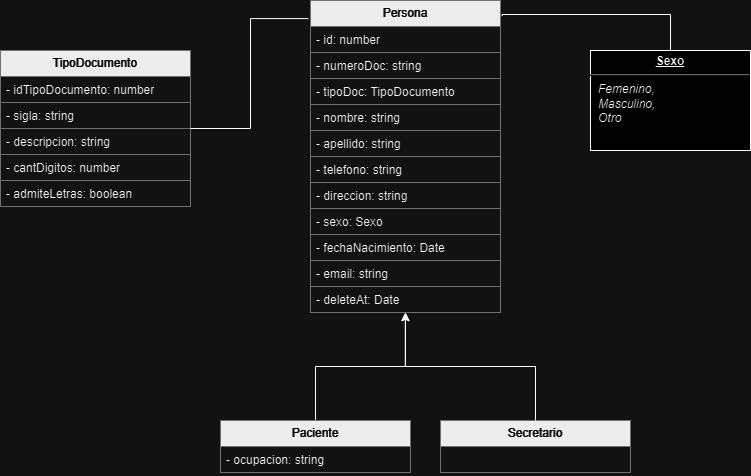
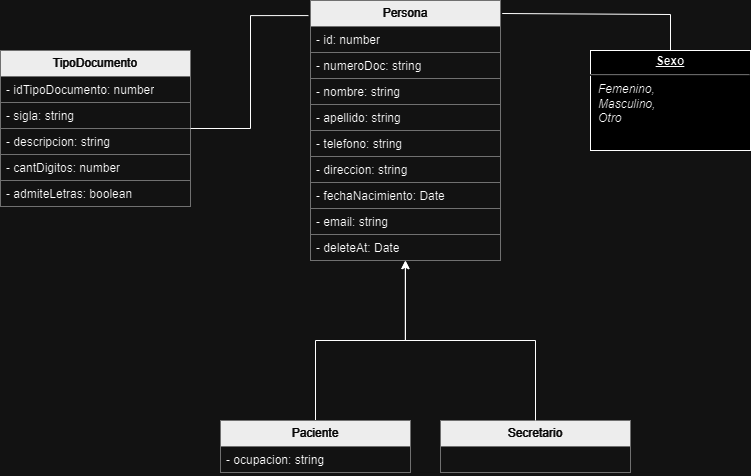
Actualizacion Requerimientos de la iteracion junto a retoques de los modelos conceptuales

diff --git a/docs/Especificacion_de_Requerimientos_Iteracion3.md b/docs/Especificacion_de_Requerimientos_Iteracion3.md
@@ -494,15 +494,16 @@ Ninguno
 ---
 ## Matriz de Rastreabilidad Objetivo/Requisitos
 
-| OBJ/IRQ                 | **OBJ01-Gestionar Psicólogos** | **OBJ02-Gestionar Pacientes** | **OBJ04-Gestionar Parámetros de Sistema** | **OBJ05-Gestionar Seguridad** |
-|:--------------------------|:------------------------:|:------------------------:|:------------------------:|:------------------------:|
-| **IRQ 01**|**X**|||||
-| **IRQ 02**|||**X**|**X**||
-| **NFR 01**|**X**|||||
-| **NFR 02**|**X**|||||
-| **NFR 03**|**X**|**X**||||
-| **NFR 04**||||**X**||
-**NFR 05**||||**X**||
+| OBJ/IRQ                 | **OBJ04-Gestionar Parámetros de Sistema** | **OBJ05-Gestionar Seguridad** | **OBJ07-Gestión de Sesiones** | **OBJ08-Gestión de Informes de Sesion** | **OBJ06-Gestion de Secretarios**|
+|:--------------------------|:------------------------:|:------------------------:|:------------------------:|:------------------------:|:------------------------:|
+| **IRQ 01**|||**X**||
+| **IRQ 02**|**X**|**X**|||**X**|
+| **IRQ 03**||||**X**|
+| **NFR 01**|**X**|**X**||||
+| **NFR 02**|**X**|||**X**|
+| **NFR 03**|**X**|**X**|**X**|**X**|
+| **NFR 04**||||**X**|
+**NFR 05**|||**X**||**X**|
 ---
 
 ## Glosario de Términos
@@ -510,33 +511,33 @@ Ninguno
 | Termino  | Categoría | Comentarios |
 |--------|--------------|----|
 | **Administrador** | Actor | Este actor representa a la persona que se administrar los usuarios del sistema, como axial también agregar todos los parámetros para su uso. |
+| **Secretario** | Actor | El secretario es el responsable de realizar la gestion de pacientes y de sesiones. |
 | **Psicologo** | Actor | El Psicologo es la responsable de llevar a cabo las sesiones con los pacientes y realizar los informes de sesion correspondientes ademas debe poder registrar nuevos pacientes y sesiones. |
-| **Registrar Psicólogos** | Caso de uso | Este caso de uso describe los pasos que se debe realizar para registrar un psicólogo. |
-| **Modificar Psicólogos** | Caso de uso | Este caso de uso describe los pasos que se debe realizar para modifcar un psicólogo. |
-| **Eliminar Psicólogos** | Caso de uso | Este caso de uso describe los pasos que se debe realizar para eliminar un psicólogo del sistema. |
-| **Consultar Psicólogos** | Caso de uso | Este caso de uso describe los pasos que se debe realizar para consultar los datos de los psicólogos del sistema. |
-| **Registrar Estado Civil** | Caso de uso | Este caso de uso describe los pasos que se debe realizar para registrar un estado civil que puede tener un paciente. |
-| **Modificar Estado Civil** | Caso de uso | Este caso de uso describe los pasos que se debe realizar para modifcar un estado civil que puede tener una persona. |
-| **Consultar Estado Civil** | Caso de uso | Este caso de uso describe los pasos que se debe realizar para consultar los estados civiles presentes en el sistema. |
-| **Eliminar Estado Civil** | Caso de uso | Este caso de uso describe los pasos que se debe realizar para eliminar un estado civil del sistema. |
-| **Registrar Especialidad** | Caso de uso | Este caso de uso describe los pasos que se debe realizar para registrar la especialidad que puede tener un psicólogo. |
-| **Modificar Especialidad** | Caso de uso | Este caso de uso describe los pasos que se debe realizar para modifcar una especialidad que puede tener un psicólogo. |
-| **Eliminar Especialidad** | Caso de uso | Este caso de uso describe los pasos que se debe realizar para eliminar una especialidad que puede tener un psicólogo del sistema. |
-| **Consultar Especialidad** | Caso de uso | Este caso de uso describe los pasos que se debe realizar para consultar los tipos de especialidades que puede tener un psicólogo presentes en el sistema. |
+| **Registrar Sesión** | Caso de uso | Este caso de uso describe los pasos que se deben realizar para registrar una sesión en el sistema. |
+| **Modificar Sesión** | Caso de uso | Este caso de uso describe los pasos que se deben realizar para modificar una sesión existente en el sistema. |
+| **Cancelar Sesión** | Caso de uso | Este caso de uso describe los pasos que se deben realizar para cancelar una sesión del sistema. |
+| **Consultar Sesión** | Caso de uso | Este caso de uso describe los pasos que se deben realizar para consultar las sesiones de los pacientes cargadas en el sistema. |
+| **Registrar Informe Sesión** | Caso de uso | Este caso de uso describe los pasos que se deben realizar para registrar un informe de sesión en el sistema. |
+| **Modificar Informe Sesión** | Caso de uso | Este caso de uso describe los pasos que se deben realizar para modificar un informe de sesión existente en el sistema. |
+| **Consultar Informe Sesión** | Caso de uso | Este caso de uso describe los pasos que se deben realizar para consultar un informe de sesion de una sesión en particular cargada en el sistema. |
+| **Registrar ocupación** | Caso de uso | Este caso de uso describe los pasos que se debe realizar para registrar la ocupación que puede tener un paciente. |
+| **Modificar ocupación** | Caso de uso | Este caso de uso describe los pasos que se debe realizar para modifcar una ocupación que puede tener un paciente. |
+| **Eliminar ocupación** | Caso de uso | Este caso de uso describe los pasos que se debe realizar para eliminar una ocupación que puede tener un paciente del sistema. |
+| **Consultar ocupación** | Caso de uso | Este caso de uso describe los pasos que se debe realizar para consultar los tipos de ocupaciones que pueden tener los paciente presentes en el sistema. |
 
 ## Modelo Conceptual
-![Modelo Conceptual](/docs/resources/ModeloConceptual2daIteracion.png)
+![Modelo Conceptual](/docs/resources/ModeloConceptual3eraIteracion.png)
 ---
 
 ## U.I.D. - Diagrama de Interacción de Usuario
 
-![](/docs/resources/UID's/UIDAltaModificaciónEliminaciónEstadoCivil.png)
+![](/docs/resources/UID's/UIDAltaModificaciónEliminaciónOcupacion.png)
 ---
-![](/docs/resources/UID's/UIDAltaModificaciónEliminaciónEspecialidad.png)
+![](/docs/resources/UID's/UIDAltaModificaciónEliminaciónSesion.png)
 ---
-![](/docs/resources/UID's/UIDAltaModificaciónEliminaciónPsicologo.png)
+![](/docs/resources/UID's/UIDAltaModificaciónInformeSesion.png)
 ---
-![](/docs/resources/UID's/UIDAltaModificaciónEliminaciónPaciente2daIteracion.png)
+![](/docs/resources/UID's/UIDAltaModificaciónEliminaciónSecretario3eraIteracion.png)
 ---
 ## Modelo Navegacional
 
